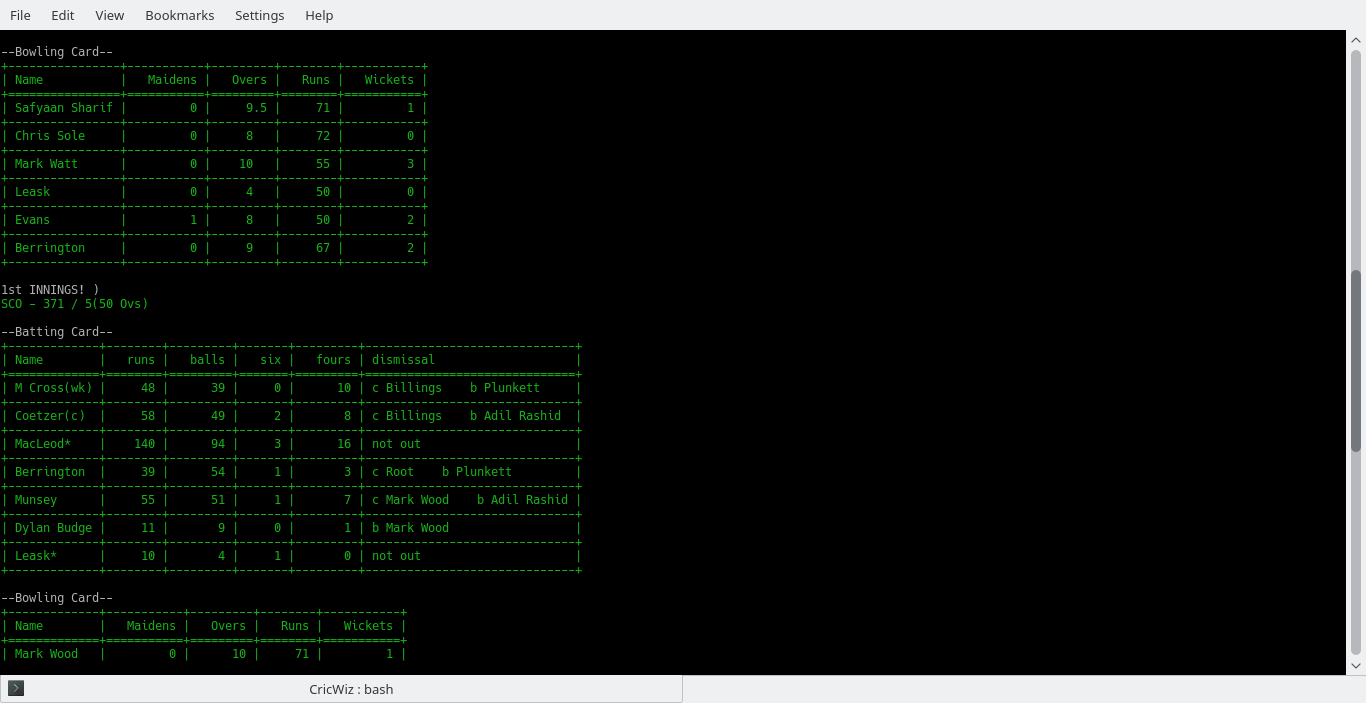
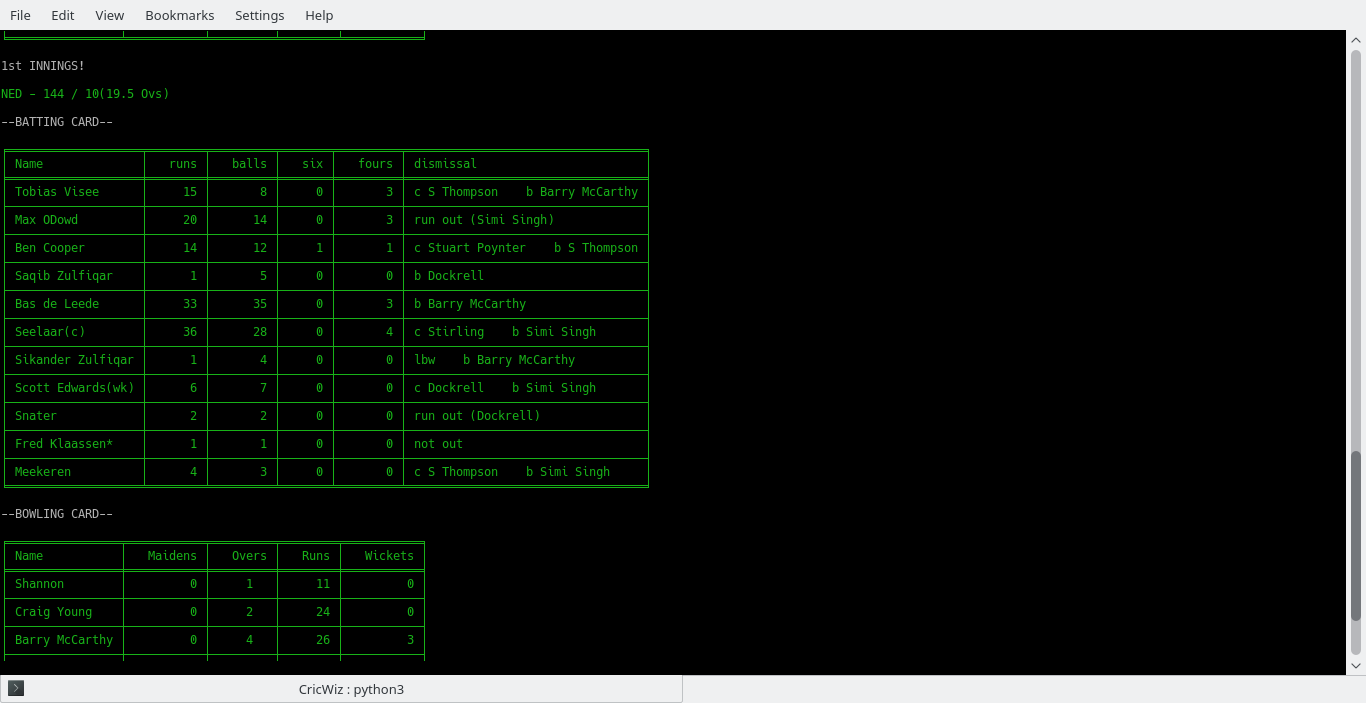
Added CricWiz

diff --git a/CricWiz.py b/CricWiz.py
@@ -15,31 +15,55 @@ def main():
     if args['livescore']:
         liveScore()
         sleep(1)
-        choice = input("\nDo you want to see the full Scorecard or commentary of any match?(y/n)")
+        choice = input("\nDo you want to get details of any of the above matches? (y/n) :")
 
         if choice.lower() == "y":
             sleep(1)
             ans = input("\nWhat do you want to get?\n\
-            1. Full scorecard\n\
-            2. Commentary\n\
-            3. Both\n\
-            Enter your choice: ")
+               1. Scorecard\n\
+               2. Commentary\n\
+               3. Squad\nEnter your choice: ")
             sleep(1)
 
             if ans == "1":
                 match_id = (input("\nEnter the Match ID of that match: "))
-                scoreCard(match_id)
+                ch = check(match_id)
+
+                if ch == 1:
+                    print(colors("\nMatch has not yet started But you can check out the Squad!\n", 31))
+                    squad(match_id)
+                elif ch == 0:
+                    print(colors("\nMatch is still in progress\n", 32))
+                    scoreCard(match_id)
+                    notified = input("Hey there, This match is live do you want to get notified about this match?(y/n)")
+                    if notified.lower() == "y":
+                        print(colors("You will be notified!( Just press Ctrl + c to stop getting notifications)", 32))
+                        try:
+                            while True:
+                                send(match_id)
+                        except KeyboardInterrupt:
+                            pass
+
+                elif ch == 2:
+                    print("\nInnings Break\n")
+                    scoreCard(match_id)
+                elif ch == -1:
+                    scoreCard(match_id)
+
             elif ans == "2":
                 match_id = (input("\nEnter the Match ID of that match: "))
                 commentary(match_id)
             elif ans == "3":
                 match_id = (input("\nEnter the Match ID of that match: "))
-                scoreCard(match_id)
-                commentary(match_id)
+                squad(match_id)
+
             else:
-                print(colors("\nWrong choice!Please select a valid choice!", 31))
-        else:
+                print(colors("\nWrong choice!Please select a valid choice!\n", 31))
+        elif choice.lower() == "n":
+            print(colors("\nThank You for using CricWiz, have a nice day!\n", 35))
             sys.exit()
+        else:
+            print(colors("\nWrong choice!Please select a valid choice!\n", 31))
 
 
 def liveScore():
@@ -59,14 +83,7 @@ def liveScore():
         status = game['matchinfo']['status']
         counter = counter + 1
         my_data.append([counter, idey, head, teams, matchType, status])
-    print(colors(tabulate(my_data, headers=headers, tablefmt="grid"), 32))
-
-    for match in matches:
-        if status.lower() == "inprogress":
-            notified = input("Hey there, {} is live do you want to get notified about this match?(y/n)".format(teams))
-            if notified.lower() == "y":
-                print(colors("You will be notified!", 32))
-                sendmessage("{} - {} / {}({} Ovs)".format(batteam, runs, wickets, overs))
+    print(colors(tabulate(my_data, headers=headers, tablefmt="fancy_grid"), 32))
 
 
 def commentary(mid):
@@ -77,9 +94,10 @@ def commentary(mid):
     for match in matches:
         if match['id'] == mid:
             commentary = c.commentary(match['id'])['commentary']
-            print("\n--COMMENTARY--")
+            print("\n--COMMENTARY--\n")
             for index in commentary:
                 print(colors(index, 32))
+            print("\n")
 
 
 def scoreCard(mid):
@@ -92,24 +110,25 @@ def scoreCard(mid):
     for match in matches:
         if match['id'] == mid:
             game = c.scorecard(match['id'])
-            for i in range(2):
-                wickets = game['scorecard'][i]['wickets']
-                runs = game['scorecard'][i]['runs']
-                bowlteam = game['scorecard'][i]['bowlteam']
-                overs = game['scorecard'][i]['overs']
-                batteam = game['scorecard'][i]['batteam']
-                runrate = game['scorecard'][i]['runrate']
-                print("\n{}st INNINGS! )".format(2 - i))
-                print(colors("{} - {} / {}({} Ovs)".format(batteam, runs, wickets, overs), 32))
-                sleep(1)
-                print("\n--Batting Card--")
-                battCard(game, i)
-                sleep(1)
-                print("\n--Bowling Card--")
-                bowlCard(game, i)
-                sleep(1)
-
-            squad(game)
+            try:
+                for i in range(2):
+                    wickets = game['scorecard'][i]['wickets']
+                    runs = game['scorecard'][i]['runs']
+                    bowlteam = game['scorecard'][i]['bowlteam']
+                    overs = game['scorecard'][i]['overs']
+                    batteam = game['scorecard'][i]['batteam']
+                    runrate = game['scorecard'][i]['runrate']
+                    print("\n{}st INNINGS!\n".format(2 - i))
+                    print(colors("{} - {} / {}({} Ovs)".format(batteam, runs, wickets, overs), 32))
+                    sleep(1)
+                    print("\n--BATTING CARD--\n")
+                    battCard(game, i)
+                    sleep(1)
+                    print("\n--BOWLING CARD--\n")
+                    bowlCard(game, i)
+                    sleep(1)
+            except IndexError:
+                pass
 
 
 def bowlCard(game, i):
@@ -134,7 +153,7 @@ def bowlCard(game, i):
     except IndexError:
         pass
     finally:
-        print(colors(tabulate(my_data, headers=header, tablefmt="grid"), 32))
+        print(colors(tabulate(my_data, headers=header, tablefmt="fancy_grid"), 32))
 
 
 def battCard(game, i):
@@ -161,30 +180,71 @@ def battCard(game, i):
     except IndexError:
         pass
     finally:
-        print(colors(tabulate(my_data, headers=header, tablefmt="grid"), 32))
+        print(colors(tabulate(my_data, headers=header, tablefmt="fancy_grid"), 32))
 
 
-def squad(game):
+def squad(mid):
     """ To display the squad for the individual teams available for the match"""
 
     header = ["S.no", "Player"]
-    for i in range(2):
-        my_data = []
-        counter = 1
-        squad = game['squad'][i]['members']
-        sq_team = game['squad'][i]['team']
-        print(colors("\n--{} Squad--\n".format(sq_team), 32))
-        for member in game['squad'][i]['members']:
-            my_data.append([counter, member])
-            counter += 1
-        print(tabulate(my_data, headers=header, tablefmt="plain"))
-        print("\n")
-        sleep(1)
+    c = Cricbuzz()
+    game = c.scorecard(mid)
+    try:
+        for i in range(2):
+            my_data = []
+            counter = 1
+            squad = game['squad'][i]['members']
+            sq_team = game['squad'][i]['team']
+            print(colors("\n--{} Squad--\n".format(sq_team), 32))
+            for member in game['squad'][i]['members']:
+                my_data.append([counter, member])
+                counter += 1
+            print(tabulate(my_data, headers=header, tablefmt="fancy_grid"))
+            print("\n")
+    except KeyError:
+        game = c.commentary(mid)
+        try:
+            for i in range(1, 4):
+                print("\n" + game['commentary'][i])
+
+        except IndexError:
+            pass
 
 
-def sendmessage(message):
+def check(mid):
+    """ To check is the match has already started or not"""
+
+    c = Cricbuzz()
+    game = c.commentary(mid)
+    state = game['matchinfo']['mchstate']
+    if state.lower() == "preview":
+        return 1
+    elif state.lower() == "inprogress":
+        return 0
+    elif state.lower() == "innings break":
+        return 2
+    elif state.lower() == "result":
+        return -1
+    else:
+        sys.exit()
+
+
+def send(mid):
     """ To send the notification about the live score update"""
 
+    c = Cricbuzz()
+    game = c.scorecard(mid)
+    try:
+        for i in range(1):
+            wickets = game['scorecard'][i]['wickets']
+            runs = game['scorecard'][i]['runs']
+            bowlteam = game['scorecard'][i]['bowlteam']
+            overs = game['scorecard'][i]['overs']
+            batteam = game['scorecard'][i]['batteam']
+            runrate = game['scorecard'][i]['runrate']
+            message = "{} - {} / {}( {} Ovs )".format(batteam, runs, wickets, overs)
+    except IndexError:
+        pass
     s.call(['notify-send', message])
     sleep(60)
 

diff --git a/README.md b/README.md
@@ -1,10 +1,10 @@
 # CricWiz
-*CricWiz* is a simple Python script that uses the Pycricbuzz- Cricket api for python to generate the recently or live cricket matches held  and display them in a tabular format. Also, we can fetch all the info about a particular match. It also allows us to get notified about the live scores of our favourite matches.
+**CricWiz** is a simple Python script that uses the *Pycricbuzz* - Cricket api for python to generate the recently or live cricket matches held  and display them in a tabular format. Also, we can fetch all the info about a particular match. It also allows us to get notified about the live scores of our favourite matches.
 
 ## Features
-*Live feed
-* Allows you to get the full scorecard of a particular match
-*You may also get notified about the live scores of the matches that are inprogess
+* Live feed.
+* Allows you to get the full scorecard of a particular match as well as commentary and squads.
+* You may also get notified about the live scores of the matches that are inprogess.
 
 ## Usage
 Run `CricWiz.py` with the following option:
@@ -13,23 +13,36 @@ Run `CricWiz.py` with the following option:
 python3 CricWiz.py -l livescore
 ```
 ![alt text](https://github.com/ugtan/CricWiz/raw/master/images/usage.png "Usage")
-
+![alt text](https://github.com/ugtan/CricWiz/raw/master/images/usage1.png "Usage")
 ## Example
+
 * Live Feed
+
  ![alt text](https://github.com/ugtan/CricWiz/raw/master/images/example1.png "Live feed")
-* Scorecard
+
+* Scorecard Info
+
  ![alt text](https://github.com/ugtan/CricWiz/raw/master/images/example2.png "Scorecard 1")
  ![alt text](https://github.com/ugtan/CricWiz/raw/master/images/example3.png "Scorecard 2")
- * Squad
- ![alt text](https://github.com/ugtan/CricWiz/raw/master/images/example4.png "Squad")
-* Commentary
- ![alt text](https://github.com/ugtan/CricWiz/raw/master/images/example5.png "Commentary")
+ ![alt text](https://github.com/ugtan/CricWiz/raw/master/images/example4.png "Scorecard 3")
 
+ *Notification Alerts
+
+ ![alt text](https://github.com/ugtan/CricWiz/raw/master/images/example5.png "Live Score Update")
+
+ * Squad
+
+ ![alt text](https://github.com/ugtan/CricWiz/raw/master/images/example7.png "Squad")
+![alt text](https://github.com/ugtan/CricWiz/raw/master/images/example8.png "Squad")
+
+* Commentary
+
+ ![alt text](https://github.com/ugtan/CricWiz/raw/master/images/example6.png "Commentary")
 
 ## Installation
-* First of all, you will require Python 3 to be able to run the `CricWiz.py`
+* First of all, you will require Python 3 to be able to run the `CricWiz.py`.
 * Now install the required Python Modules by running the following command in the terminal:
 Run ``` pip install -r requirements.txt ```
-* Now you are ready to go just run the command in the usage section
+* Now you are ready to go just run the command in the usage section and enjoy.
 
-Idea Credit - [mzfr](https://www.github.com/mzfr)
+Shoutout to [mzfr](https://www.github.com/mzfr) for the idea.
